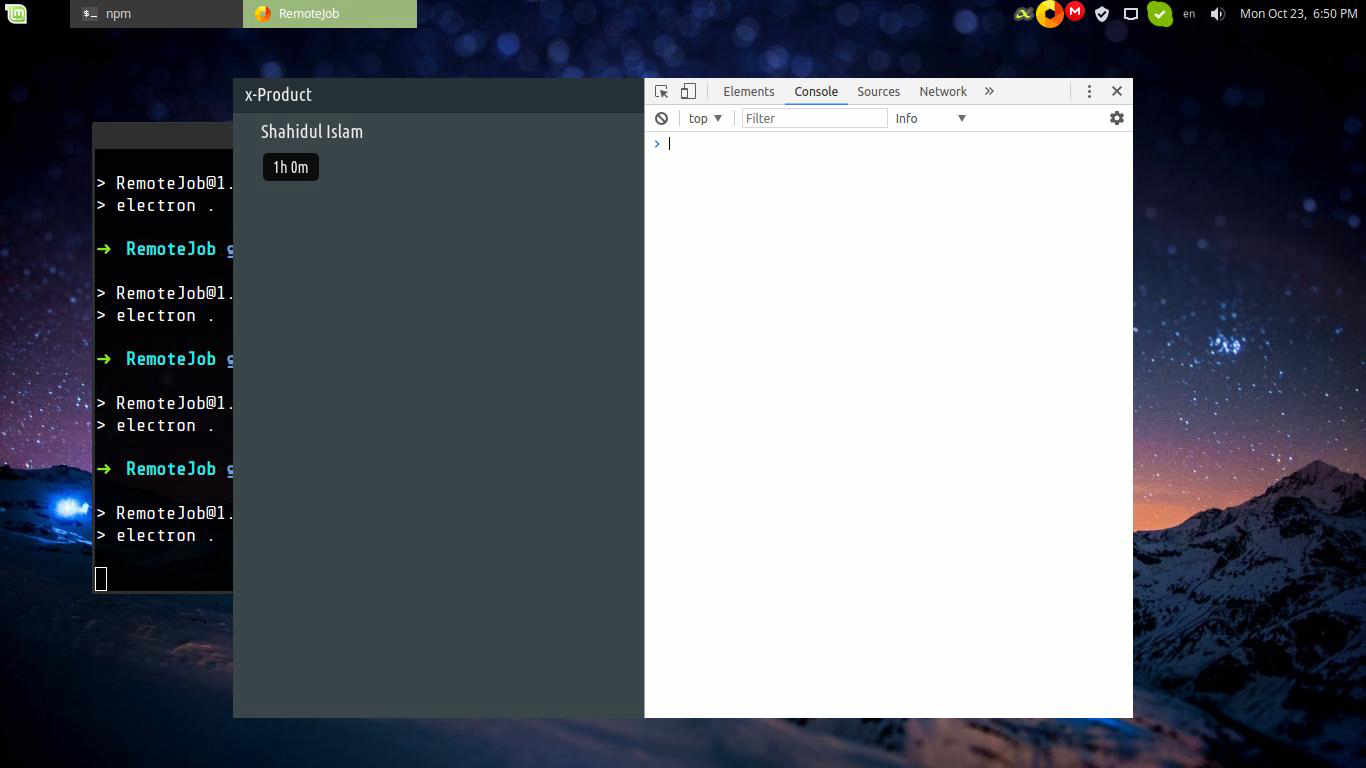
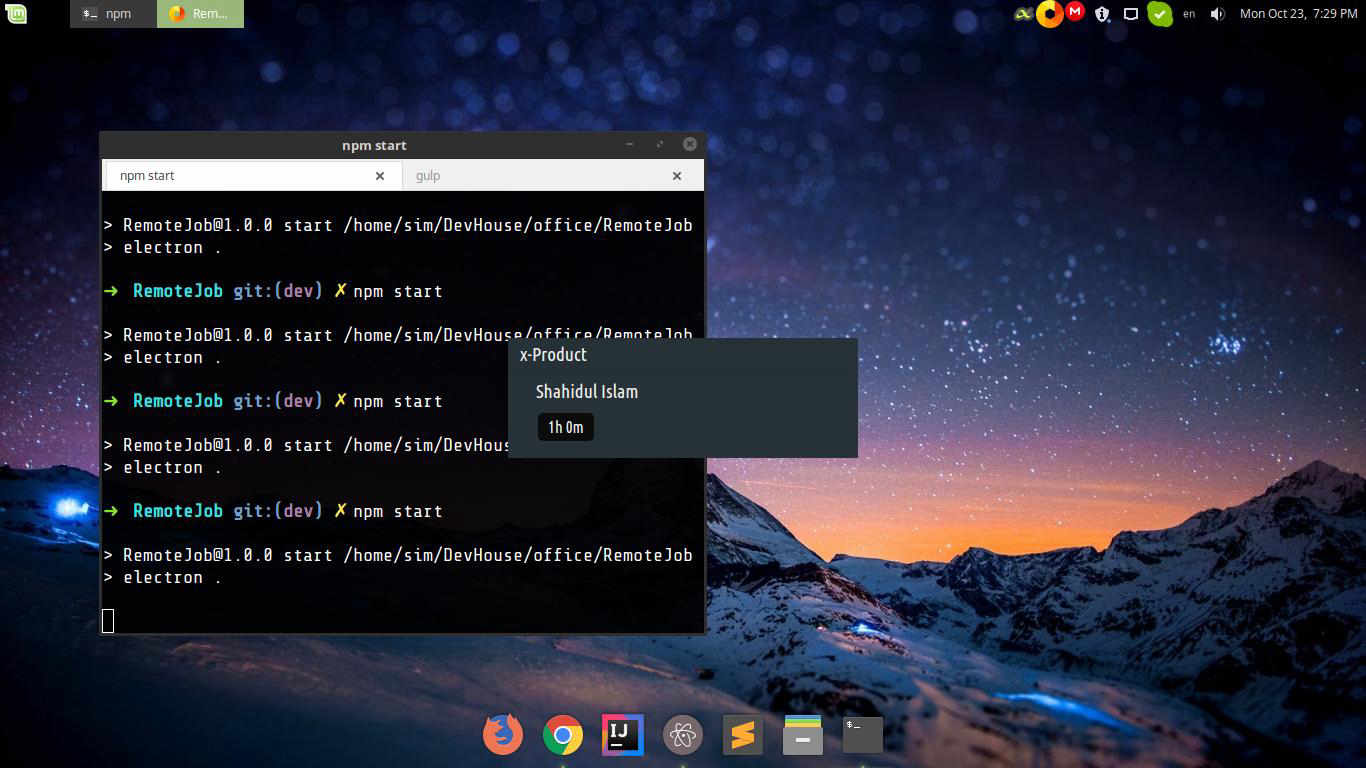
Fixed white splash on startup

diff --git a/css/scss/_main.scss b/css/scss/_main.scss
@@ -1,38 +1,40 @@
-.user-timer {
-  padding: 7px;
-  position: relative;
-  .user {
-    font-weight: 400;
-    font-size: 1.2em;
-    &::before {
-      content: '\f26d';
-      font-family: $material-font;
-      font-size: 0.5em;
-      margin-right: 10px;
-      margin-left: 5px;
-      position: relative;
-      top: -2px;
-      color: $active-state-color;
+.main {
+  .user-timer {
+    padding: 7px;
+    position: relative;
+    .user {
+      font-weight: 400;
+      font-size: 1.2em;
+      &::before {
+        content: '\f26d';
+        font-family: $material-font;
+        font-size: 0.5em;
+        margin-right: 10px;
+        margin-left: 5px;
+        position: relative;
+        top: -2px;
+        color: $active-state-color;
+      }
     }
-  }
-  .timer {
-    margin-left: 23px;
-    display: inline-block;
-    padding: 5px 10px;
-    margin-top: 10px;
-    background: $primary-color*0.05;
-    border-radius: 5px;
-  }
-  .timer-control {
-    position: absolute;
-    right: 12px;
-    top: 50%;
-    transform: translateY(-50%);
-    background: none;
-    border: none;
-    color: $active-state-color;
-    font-size: 2em;
-    outline: none;
-    cursor: pointer;
+    .timer {
+      margin-left: 23px;
+      display: inline-block;
+      padding: 5px 10px;
+      margin-top: 10px;
+      background: $primary-color*0.05;
+      border-radius: 5px;
+    }
+    .timer-control {
+      position: absolute;
+      right: 12px;
+      top: 50%;
+      transform: translateY(-50%);
+      background: none;
+      border: none;
+      color: $active-state-color;
+      font-size: 2em;
+      outline: none;
+      cursor: pointer;
+    }
   }
 }

diff --git a/main.js b/main.js
@@ -9,9 +9,11 @@ function createWindow() {
   mainWindow = new BrowserWindow({
     width: 350,
     height: 120,
+    backgroundColor: '#3B464B',
     // width: 900,
     // height: 640,
     frame: false,
+    show: false,
     icon: path.join(__dirname, 'icons/png/64x64.png')
   });
 
@@ -20,6 +22,10 @@ function createWindow() {
     protocol: 'file:',
     slashes: true
   }));
+
+  mainWindow.once('ready-to-show', () => {
+    mainWindow.show();
+  });
 
   mainWindow.on('closed', () => {
     app.quit();
@@ -44,6 +50,7 @@ function createLoginWindow() {
     width: 350,
     height: 350,
     frame: false,
+    show: false,
     icon: path.join(__dirname, 'icons/png/64x64.png')
   });
 
@@ -52,6 +59,10 @@ function createLoginWindow() {
     protocol: 'file:',
     slashes: true
   }));
+
+  loginWindow.once('ready-to-show', () => {
+    loginWindow.show();
+  });
 
   loginWindow.on('closed', () => {
     loginWindow = null;
@@ -65,7 +76,7 @@ function createPreferenceWindow() {
     height: 378,
     parent: mainWindow,
     frame: false,
-    //show: false,
+    show: false,
     icon: path.join(__dirname, 'icons/png/64x64.png')
   });
 

diff --git a/css/style.css b/css/style.css
@@ -52,13 +52,13 @@ header {
         header .menu-bar .control-menu .menu-btn:hover .menu-icon {
           transform: scale(1.2); }
 
-.user-timer {
+.main .user-timer {
   padding: 7px;
   position: relative; }
-  .user-timer .user {
+  .main .user-timer .user {
     font-weight: 400;
     font-size: 1.2em; }
-    .user-timer .user::before {
+    .main .user-timer .user::before {
       content: '\f26d';
       font-family: "Material-Design-Iconic-Font";
       font-size: 0.5em;
@@ -67,14 +67,14 @@ header {
       position: relative;
       top: -2px;
       color: #64dd17; }
-  .user-timer .timer {
+  .main .user-timer .timer {
     margin-left: 23px;
     display: inline-block;
     padding: 5px 10px;
     margin-top: 10px;
     background: #0c0c0c;
     border-radius: 5px; }
-  .user-timer .timer-control {
+  .main .user-timer .timer-control {
     position: absolute;
     right: 12px;
     top: 50%;

diff --git a/index.html b/index.html
@@ -22,7 +22,7 @@
       </ul>
     </nav>
   </header>
-  <main>
+  <main class="main">
     <div class="user-timer">
       <h2 class="user">Shahidul Islam</h2>
       <p class="timer">
